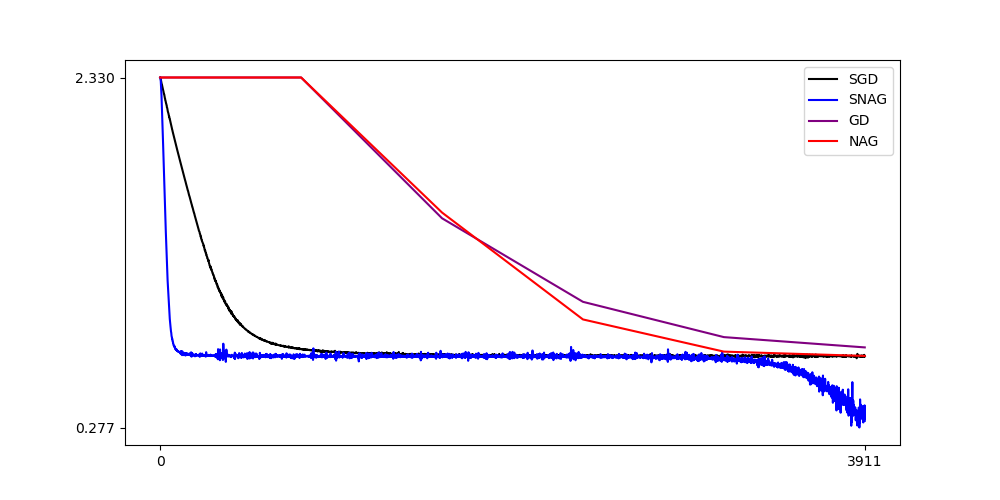
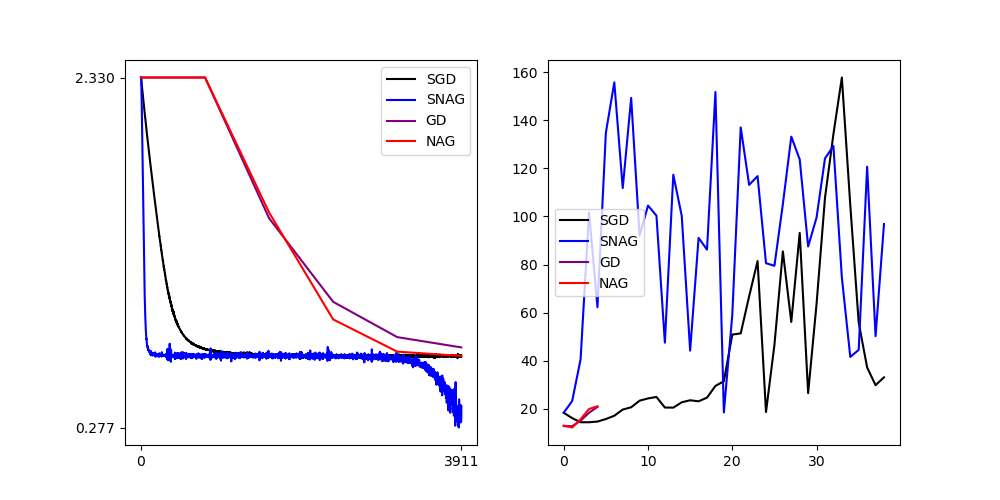
first version of RACOGA plots

diff --git a/Neural_network/vizualisation.py b/Neural_network/vizualisation.py
@@ -8,6 +8,8 @@ setting = "_n_epoch_5_batch_random_with_rpl_alg_"
 list_net = ['MLP','CNN']
 
 for i in range(len(list_net)):
+    
+    ## Import loss along algorithms iterations
     dict_results_sgd = torch.load(root + list_net[i] + setting  + "SGD_dict_loss.pth")
     dict_results_snag = torch.load(root + list_net[i] + setting  + "SNAG_dict_loss.pth")
     dict_results_nag = torch.load(root + list_net[i] + setting  + "NAG_dict_loss.pth")
@@ -16,7 +18,20 @@ for i in range(len(list_net)):
     loss_trajectory_snag = dict_results_snag["loss_trajectory"]
     loss_trajectory_gd = dict_results_gd["loss_trajectory"]
     loss_trajectory_nag = dict_results_nag["loss_trajectory"]
+
+    ## Import RACOGA values
+    dict_racoga_sgd = np.load(root + list_net[i] + setting  + "SGD_racoga_results.npy", allow_pickle=True)
+    dict_racoga_snag = np.load(root + list_net[i] + setting  + "SNAG_racoga_results.npy", allow_pickle=True)
+    dict_racoga_nag = np.load(root + list_net[i] + setting  + "NAG_racoga_results.npy", allow_pickle=True)
+    dict_racoga_gd = np.load(root + list_net[i] + setting  + "GD_racoga_results.npy", allow_pickle=True)
+    print(type(dict_racoga_gd))
+    racoga_trajectory_sgd = dict_racoga_sgd.item()['racoga_list']
+    racoga_trajectory_snag = dict_racoga_snag.item()["racoga_list"]
+    racoga_trajectory_gd = dict_racoga_gd.item()["racoga_list"]
+    racoga_trajectory_nag = dict_racoga_nag.item()["racoga_list"]
+
     plt.figure(figsize=(10,5))
+    plt.subplot(121)
     nb_gd_eval_det = torch.arange(0,782*5 +1 ,782)
     plt.plot(loss_trajectory_sgd,label = "SGD",c = "black")
     plt.plot(loss_trajectory_snag,label = "SNAG",c = "blue")
@@ -25,6 +40,16 @@ for i in range(len(list_net)):
     plt.xticks((0,782*5 +1))
     plt.yticks((np.array(loss_trajectory_snag,dtype = np.float32).min(),np.array(loss_trajectory_snag,dtype = np.float32).max()))
     plt.legend()
+    plt.subplot(122)
+    nb_gd_eval_det = torch.linspace(0,(782*5 +1)*0.01 ,782*0.01)
+    plt.plot(racoga_trajectory_sgd,label = "SGD",c = "black")
+    plt.plot(racoga_trajectory_snag,label = "SNAG",c = "blue")
+    plt.plot(nb_gd_eval_det,racoga_trajectory_gd,label = "GD",c = "purple")
+    plt.plot(nb_gd_eval_det,racoga_trajectory_nag,label = "NAG",c = "red")
+    # plt.xticks((0,782*5 +1))
+    # plt.yticks((np.array(racoga_trajectory_snag,dtype = np.float32).min(),np.array(racoga_trajectory_snag,dtype = np.float32).max()))
+    plt.legend()
+
     plt.savefig("figures/alg_cv_" + list_net[i] + ".png")
 
 

diff --git a/Neural_network/racoga_computation.py b/Neural_network/racoga_computation.py
@@ -96,7 +96,6 @@ if alg == "SGD" or alg == "SNAG":
         racoga = scalar_prod/sum_gradient_norm
         racoga_list.append(racoga.detach().cpu().numpy())
         scalar_prod_list.append(scalar_prod.detach().cpu().numpy())
-
 else:
     for k in tqdm(range(len(weights_trajectory))):
         iteration_list.append(k)
@@ -138,10 +137,10 @@ dict = {
     "scalar_prod_list" : scalar_prod_list,
     "iteration_list" : iteration_list,
 }
-save_name = path_results+network_type+'_n_epoch_'+str(n_epoch)+'_batch_'+batch_sample+'_'+ alg
-np.save(save_name+'racoga_results.npy', dict)
+save_name = path_results+network_type+'_n_epoch_'+str(n_epoch)+'_batch_'+batch_sample+'_alg_'+ alg
+np.save(save_name+'_racoga_results.npy', dict)
 
 plt.plot(iteration_list, racoga_list)
 plt.xlabel("number of iterations")
 plt.ylabel("RACOGA")
-plt.savefig(save_name+"racoga_evolution.png")
+plt.savefig(save_name+"_racoga_evolution.png")
